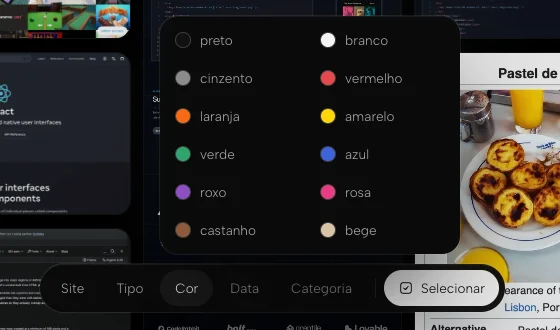
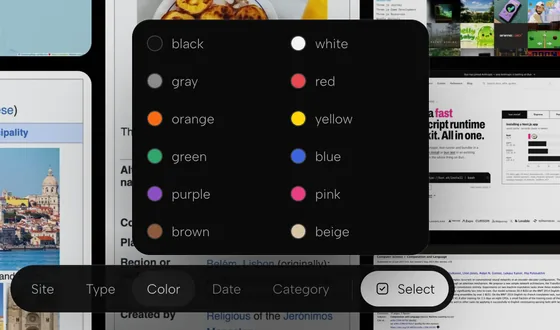
docs(site): English product screenshots with English tag labels
Retaken from a throwaway container built from this checkout, with a clean
demo library of public pages: gallery, search, detail, filters and phone
(same names, sizes and format), and og.jpg re-rendered from them. The README
note about the Portuguese screenshots is gone.

diff --git a/README.md b/README.md
@@ -60,8 +60,6 @@ It runs as **one Docker container**. Your captures stay on your disk.
 | <img src="site/assets/search.webp" alt="⌘K search palette with image results"> | <img src="site/assets/detail.webp" alt="Detail view with zoomable capture, tags and note"> |
 | <img src="site/assets/filters.webp" alt="The filter Dock with the color filter open"> | <img src="site/assets/phone.webp" alt="The gallery on a phone" width="260"> |
 
-> The screenshots show the earlier Portuguese interface; the UI is now English by default.
-
 ## How it works
 
 ```
